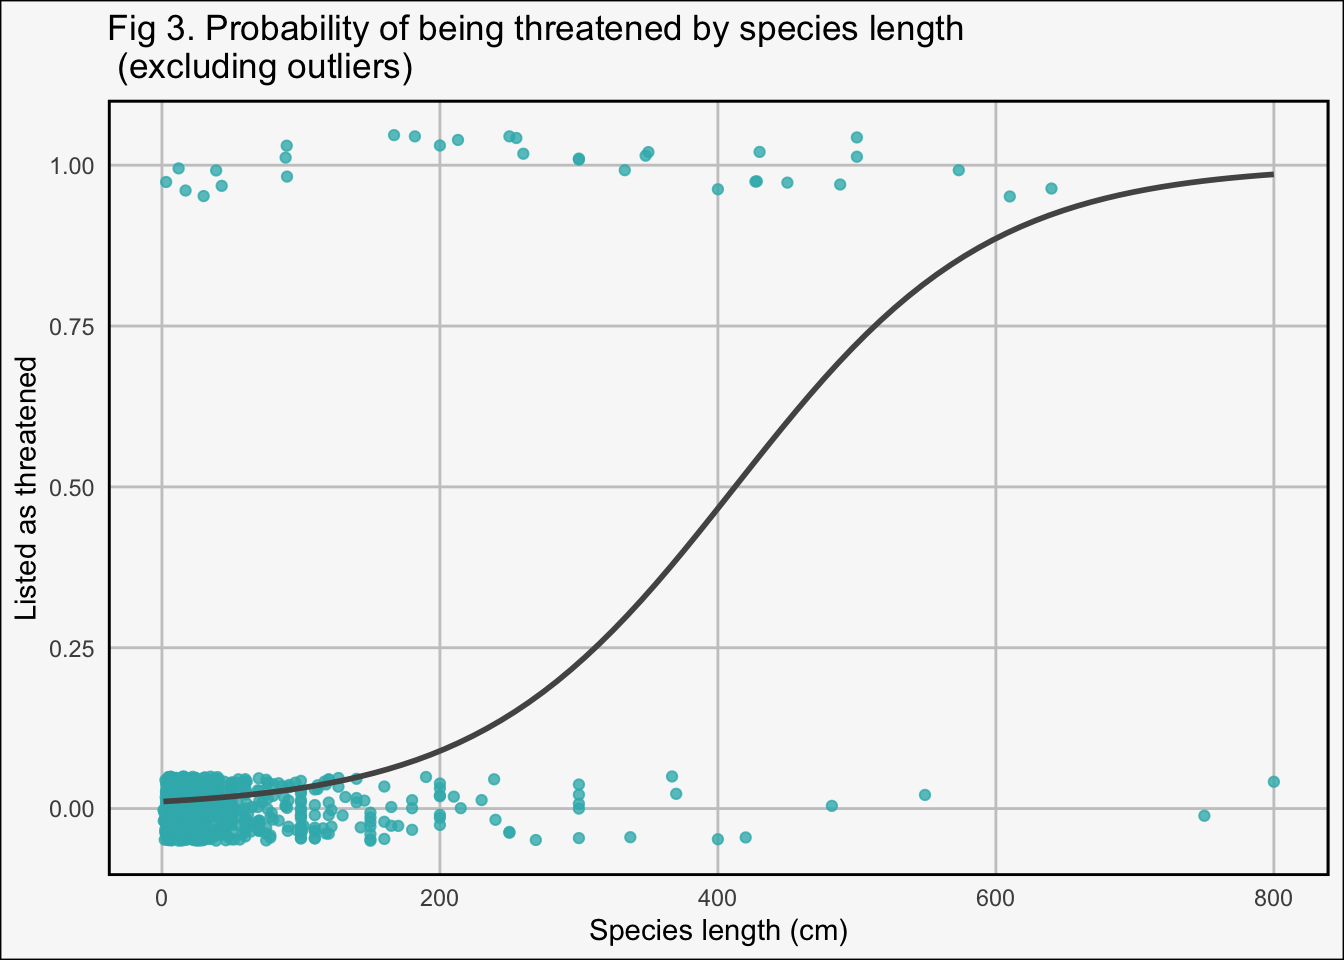
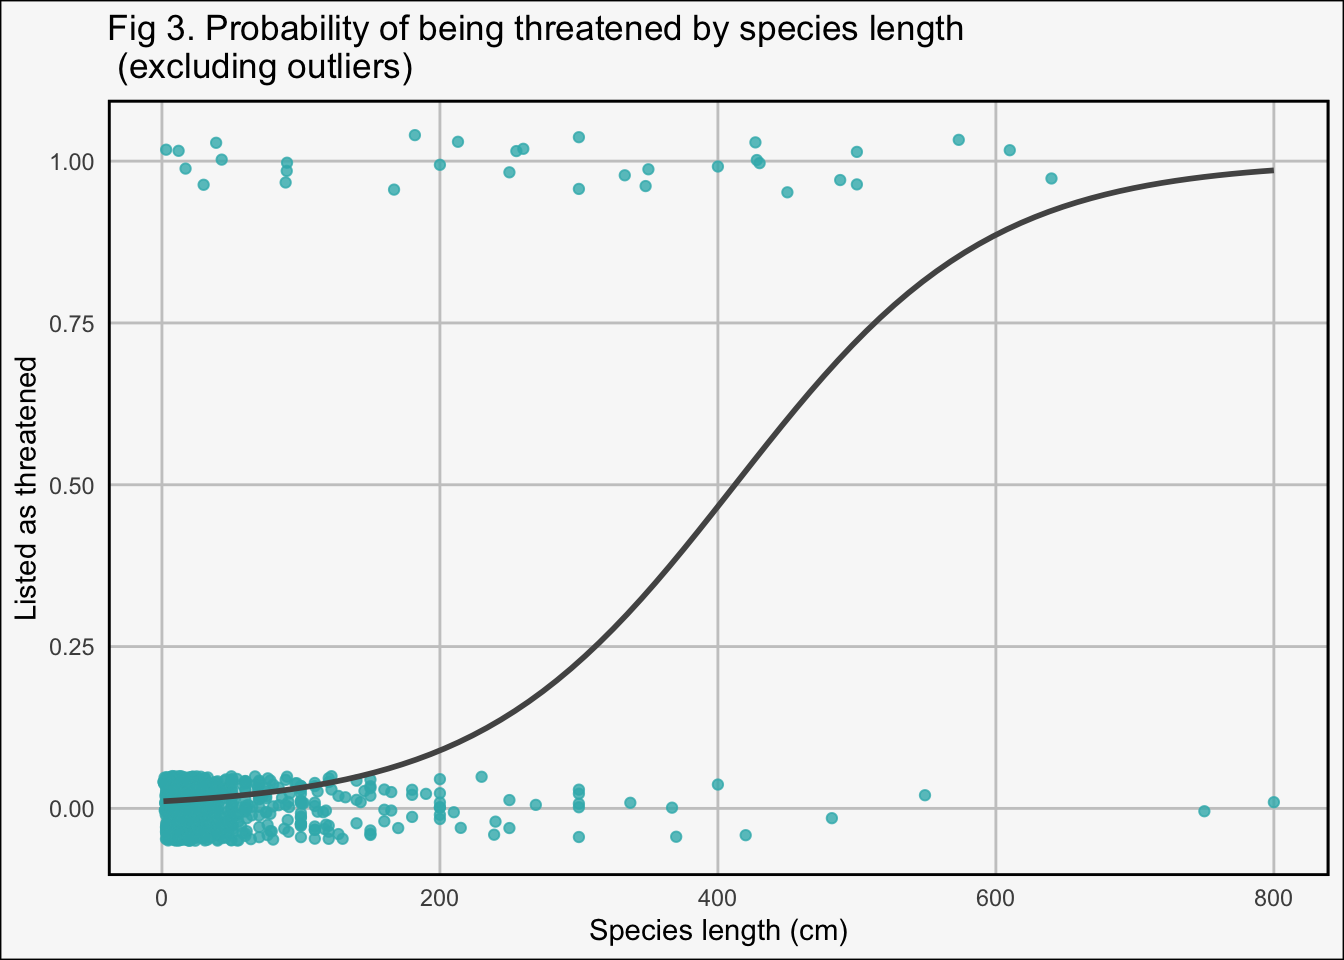
pushed draft

diff --git a/docs/posts.html b/docs/posts.html
@@ -140,7 +140,7 @@ ul.task-list li input[type="checkbox"] {
 <!-- margin-sidebar -->
     <div id="quarto-margin-sidebar" class="sidebar margin-sidebar">
         
-    <h5 class="quarto-listing-category-title">Categories</h5><div class="quarto-listing-category category-default"><div class="category" data-category="">All <span class="quarto-category-count">(7)</span></div><div class="category" data-category="Art">Art <span class="quarto-category-count">(1)</span></div><div class="category" data-category="Data Visualization">Data Visualization <span class="quarto-category-count">(1)</span></div><div class="category" data-category="ISU">ISU <span class="quarto-category-count">(1)</span></div><div class="category" data-category="MEDS">MEDS <span class="quarto-category-count">(4)</span></div><div class="category" data-category="Machine Learning">Machine Learning <span class="quarto-category-count">(1)</span></div><div class="category" data-category="Python">Python <span class="quarto-category-count">(1)</span></div><div class="category" data-category="R">R <span class="quarto-category-count">(1)</span></div></div></div>
+    <h5 class="quarto-listing-category-title">Categories</h5><div class="quarto-listing-category category-default"><div class="category" data-category="">All <span class="quarto-category-count">(8)</span></div><div class="category" data-category="Art">Art <span class="quarto-category-count">(1)</span></div><div class="category" data-category="Data Visualization">Data Visualization <span class="quarto-category-count">(1)</span></div><div class="category" data-category="ISU">ISU <span class="quarto-category-count">(1)</span></div><div class="category" data-category="MEDS">MEDS <span class="quarto-category-count">(5)</span></div><div class="category" data-category="Machine Learning">Machine Learning <span class="quarto-category-count">(1)</span></div><div class="category" data-category="Python">Python <span class="quarto-category-count">(1)</span></div><div class="category" data-category="R">R <span class="quarto-category-count">(2)</span></div><div class="category" data-category="Statistics">Statistics <span class="quarto-category-count">(1)</span></div></div></div>
 <!-- main -->
 <main class="content" id="quarto-document-content">
 
@@ -356,7 +356,43 @@ Dec 2, 2022
 </div>
 </a>
 </div>
-<div class="g-col-1" data-index="6" data-categories="ISU" data-listing-date-sort="1575180000000" data-listing-file-modified-sort="1673633362481" data-listing-reading-time-sort="0.44">
+<div class="g-col-1" data-index="6" data-categories="MEDS,Statistics,R" data-listing-date-sort="1669960800000" data-listing-file-modified-sort="1689269983372" data-listing-reading-time-sort="16.76">
+<a href="./posts/2022-12-02-hawaiian-fish-analysis/index.html" class="quarto-grid-link">
+<div class="quarto-grid-item card h-100 card-left">
+<p class="card-img-top">
+<img src="./posts/2022-12-02-hawaiian-fish-analysis/dive_mask.JPG" class="thumbnail-image card-img" style="height: 150px;">
+</p>
+<div class="card-body post-contents">
+<h5 class="no-anchor card-title listing-title">
+Identifying Key Traits in Hawaiian Fish that Predict Risk of Extinction
+</h5>
+<div class="listing-categories">
+<div class="listing-category" onclick="window.quartoListingCategory('MEDS'); return false;">
+MEDS
+</div>
+<div class="listing-category" onclick="window.quartoListingCategory('Statistics'); return false;">
+Statistics
+</div>
+<div class="listing-category" onclick="window.quartoListingCategory('R'); return false;">
+R
+</div>
+</div>
+<div class="card-text listing-description">
+A logistic regression example with fish
+</div>
+<div class="card-attribution card-text-small justify">
+<div class="listing-author">
+Elke Windschitl
+</div>
+<div class="listing-date">
+Dec 2, 2022
+</div>
+</div>
+</div>
+</div>
+</a>
+</div>
+<div class="g-col-1" data-index="7" data-categories="ISU" data-listing-date-sort="1575180000000" data-listing-file-modified-sort="1673633362481" data-listing-reading-time-sort="0.44">
 <a href="./posts/2019-12-01-bobwhite-aru-research/index.html" class="quarto-grid-link">
 <div class="quarto-grid-item card h-100 card-left">
 <p class="card-img-top">

diff --git a/docs/about.html b/docs/about.html
@@ -199,8 +199,8 @@ My Homes
 <p>I grew up in the state of Iowa, but I’ve moved around a lot in my adult life! I participated in multiple National Student Exchange programs, and I moved around for internships and fellowships. Check out all the places I’ve lived since I started college in 2016 – size indicates relatively how long I lived there:</p>
 <div class="cell">
 <div class="cell-output-display">
-<div class="leaflet html-widget html-fill-item-overflow-hidden html-fill-item" id="htmlwidget-df1cf1fd3341f0d17ae3" style="width:100%;height:464px;"></div>
-<script type="application/json" data-for="htmlwidget-df1cf1fd3341f0d17ae3">{"x":{"options":{"crs":{"crsClass":"L.CRS.EPSG3857","code":null,"proj4def":null,"projectedBounds":null,"options":{}}},"calls":[{"method":"addProviderTiles","args":["CartoDB.Positron",null,"CartoDB.Positron",{"errorTileUrl":"","noWrap":false,"detectRetina":false}]},{"method":"addCircles","args":[[41.6559,32.1541,42.0256,19.6883,38.6359,36.5919,36.7335,47.6211,34.4285],[-91.5303,-110.8787,-93.6217,-155.0863,-90.2451,-121.8808,-76.0435,-122.3244,-119.7202],[21,5,20,5,5,3,3,8,11],null,"Cities",{"interactive":true,"className":"","stroke":true,"color":"#1cd4ce","weight":[63,15,60,15,15,9,9,24,33],"opacity":0.5,"fill":true,"fillColor":"#1cd4ce","fillOpacity":0.2},null,null,["Iowa City","Tucson","Ames","Hilo","St. Louis","Monterey","Virginia Beach","Seattle","Santa Barbara"],{"interactive":false,"permanent":false,"direction":"auto","opacity":1,"offset":[0,0],"textsize":"10px","textOnly":false,"className":"","sticky":true},null,null]},{"method":"imagePopup","args":[["IC.jpg","AZ.jpg","AMES.jpg","HI.jpg","STL.jpg","MB.jpg","vB.jpg","SEA.jpg","SB.jpg"],"Cities",[175,175,175,175,175,175,175,175,175],[233.333333333333,233.333333333333,262.5,232.792959703566,131.25,131.25,191.319444444444,131.25,116.62109375],["l","l","l","l","l","l","l","l","l"],["IC","AZ","AMES","HI","STL","MB","vB","SEA","SB"],false,{"maxWidth":2000}]}],"setView":[[42.3601,-110.35],2.5,[]],"limits":{"lat":[19.6883,47.6211],"lng":[-155.0863,-76.0435]}},"evals":[],"jsHooks":[]}</script>
+<div class="leaflet html-widget html-fill-item-overflow-hidden html-fill-item" id="htmlwidget-318c308de858ab5decdb" style="width:100%;height:464px;"></div>
+<script type="application/json" data-for="htmlwidget-318c308de858ab5decdb">{"x":{"options":{"crs":{"crsClass":"L.CRS.EPSG3857","code":null,"proj4def":null,"projectedBounds":null,"options":{}}},"calls":[{"method":"addProviderTiles","args":["CartoDB.Positron",null,"CartoDB.Positron",{"errorTileUrl":"","noWrap":false,"detectRetina":false}]},{"method":"addCircles","args":[[41.6559,32.1541,42.0256,19.6883,38.6359,36.5919,36.7335,47.6211,34.4285],[-91.5303,-110.8787,-93.6217,-155.0863,-90.2451,-121.8808,-76.0435,-122.3244,-119.7202],[21,5,20,5,5,3,3,8,11],null,"Cities",{"interactive":true,"className":"","stroke":true,"color":"#1cd4ce","weight":[63,15,60,15,15,9,9,24,33],"opacity":0.5,"fill":true,"fillColor":"#1cd4ce","fillOpacity":0.2},null,null,["Iowa City","Tucson","Ames","Hilo","St. Louis","Monterey","Virginia Beach","Seattle","Santa Barbara"],{"interactive":false,"permanent":false,"direction":"auto","opacity":1,"offset":[0,0],"textsize":"10px","textOnly":false,"className":"","sticky":true},null,null]},{"method":"imagePopup","args":[["IC.jpg","AZ.jpg","AMES.jpg","HI.jpg","STL.jpg","MB.jpg","vB.jpg","SEA.jpg","SB.jpg"],"Cities",[175,175,175,175,175,175,175,175,175],[233.333333333333,233.333333333333,262.5,232.792959703566,131.25,131.25,191.319444444444,131.25,116.62109375],["l","l","l","l","l","l","l","l","l"],["IC","AZ","AMES","HI","STL","MB","vB","SEA","SB"],false,{"maxWidth":2000}]}],"setView":[[42.3601,-110.35],2.5,[]],"limits":{"lat":[19.6883,47.6211],"lng":[-155.0863,-76.0435]}},"evals":[],"jsHooks":[]}</script>
 </div>
 </div>
 <p>Map made using package leaflet and data from: <a href="https://simplemaps.com/data/us-cities" class="uri">https://simplemaps.com/data/us-cities</a></p>
